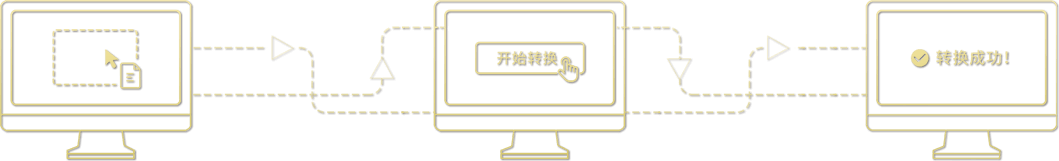
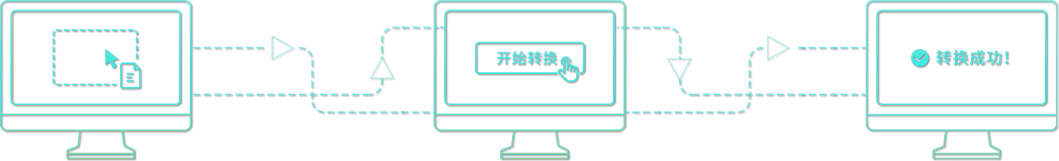
updata

diff --git a/public/css/home/surpport.css b/public/css/home/surpport.css
@@ -673,7 +673,7 @@ table{
     position: relative;
     width: 100%;
     color: #fff;
-    background: no-repeat 50% 50% #008c8c;
+    background: no-repeat 50% 50% #1eaeb9;
 }
 
 
@@ -918,13 +918,13 @@ table{
     display: block;
 }
 .goods-pics .goods-pic-1{
-    background: url(../../images/goods-pic-1.png) center no-repeat;
+    background: url(../../images/goods-pic.png) center no-repeat;
 }
 .goods-pics .goods-pic-2{
-    background: url(../../images/goods-pic-2.png) center no-repeat;
+    background: url(../../images/goods-pic.png) center no-repeat;
 }
 .goods-pics .goods-pic-3{
-    background: url(../../images/goods-pic-3.png) center no-repeat;
+    background: url(../../images/goods-pic.png) center no-repeat;
 }
 
 
@@ -1904,7 +1904,6 @@ h1.title {
 }
 
 .banner-surpport {
-    background-color: #278ff0;
     background-image: url(../../images/bg-help-top-01.jpg);
 }
 
@@ -1912,9 +1911,6 @@ h1.title {
     height: 240px;
 }
 
-.banner-problems {
-    background: url(../../images/bg-010.jpg) no-repeat 50% 50%;
-}
 
 .banner-problems .banner-pic {
     width: 37%;
@@ -1960,7 +1956,7 @@ h1.title {
 
 .banner-help {
     height: 240px;
-    background: url(../../images/bg-help-top-01.jpg) center no-repeat #278ff0;
+    background: url(../../images/bg-help-top-01.jpg) center no-repeat #1eaeb9;
 }
 
 @media (max-width: 600px) {
@@ -2078,7 +2074,7 @@ h1.title {
 }
 
 .category-list-help .item-wrap h1:hover {
-    background-color: #3c9ef8;
+    background-color: #3d8c86;
 }
 
 .category-list-help .item-wrap h1 a {
@@ -2122,7 +2118,7 @@ h1.title {
 }
 
 .category-list-help .item-wrap .more a {
-    color: #29adff;
+    color: #008c8c;
 }
 
 .category-list-help .item-wrap .more a:hover {
@@ -2236,7 +2232,7 @@ h1.title {
 }
 
 .category-list-problems .item-excerpt h2 a {
-    color: #29adff;
+    color: #008c8c;
 }
 
 .category-list-problems .item-excerpt h2 a:hover {
@@ -2263,7 +2259,7 @@ h1.title {
     width: 90%;
     margin: 0 auto;
     text-align: right;
-    color: #29adff;
+    color: #008c8c;
 }
 
 .category-list-problems .item-excerpt .more:hover {
@@ -2622,7 +2618,7 @@ h1.title {
 
 .surpport-reg-guide div.cxt a.a-01 {
     margin-top: 45px;
-    background: #eaf5fe;
+    background: #e9f8f9;
     *height: 170px;
 }
 
@@ -2638,14 +2634,14 @@ h1.title {
     margin: 30px auto 30px;
     padding: 3px 0px;
     color: #fff;
-    background: #319df9;
+    background: #008c8c;
 }
 
 .surpport-reg-guide div.cxt li h3 {
     font-size: 24px;
     padding: 10px 0;
     text-align: center;
-    color: #319df9;
+    color: #008c8c;
     *text-indent: 100px;
 }
 
@@ -4477,13 +4473,13 @@ h4.title-feature {
     margin: 0 auto .618em;
     text-align: center;
     color: #fff;
-    border: solid 1px #015082;
+    border: solid 1px #008c8c;
     border-top: none;
     border-bottom-width: 2px;
     -webkit-border-radius: 4px;
     -moz-border-radius: 4px;
     border-radius: 4px;
-    background-color: #0168b8;
+    background-color:#008c8c;
 }
 
 .hero-aside .hero-download img {
@@ -4503,7 +4499,7 @@ h4.title-feature {
     padding: 5px 0;
     text-align: center;
     color: #fff;
-    background-color: #0e8aea;
+    background-color: #008c8c;
 }
 
 .article-relate img {
@@ -4513,7 +4509,6 @@ h4.title-feature {
     display: block;
     margin-bottom: 10px;
     padding-left: 1em;
-    background: #e5f3fd;
 }
 
 
@@ -4556,7 +4551,7 @@ h4.title-feature {
 .article-relate-tags a {
     font-size: 8px;
     padding: .2em .4em;
-    background: #e5f3fd;
+    background: #e9f8f9;
 }
 
 .article-relate-tags a:hover {
@@ -4571,11 +4566,11 @@ h4.title-feature {
     padding: 7px 0;
     text-align: center;
     color: #1583d1;
-    border-bottom: solid 8px #a4d8f1;
+    border-bottom: solid 8px #e9f8f9;
     -webkit-border-radius: 8px;
     -moz-border-radius: 8px;
     border-radius: 8px;
-    background-color: #c0eefc;
+    background-color: #e9f8f9;
 }
 
 .aside-qq img {

diff --git a/public/css/home/style.css b/public/css/home/style.css
@@ -60,7 +60,7 @@
 .x2018BannerMenu .active,
 .x2018BannerMenu li:hover{background: #d51403;}
 .x2018Banner3BG{background: url(../../images/x2018banner3bg.png); height: 350px;}
-.numBG{background: #1b9efc; display: inline-block; width: 25px; height: 25px; border-radius: 50%; color: #fff; line-height: 25px; text-align: center; margin-right: 10px;}
+.numBG{background: #1eaeb9; display: inline-block; width: 25px; height: 25px; border-radius: 50%; color: #fff; line-height: 25px; text-align: center; margin-right: 10px;}
 .xinTitle{background: url(../../images/x2018_10.png) no-repeat 0 25px ; padding-left:40px;}
 .xinTitle2{background: url(../../images/x2018_10.png) no-repeat 0 6px ; padding-left:40px;}
 .x2018YPGJ{height: 511px; background: url(../../images/x2018_2_4.jpg) no-repeat top;}

diff --git a/resources/views/index.blade.php b/resources/views/index.blade.php
@@ -94,7 +94,6 @@
     }
 
     .banner-index .banner-pic img {
-        margin-top: 16%;
         margin-left: -10%;
     }
 
@@ -163,9 +162,9 @@
     }
     @media (min-width: 1024px) {
        .jiaochen{
-           width: 1000px;
-           margin-left: 38%;
-           display: inline-block;
+           width: 530px;
+           margin: 0 auto;
+           display: block;
        }
     }
     @media (max-width: 1024px) {
@@ -175,8 +174,8 @@
     }
     @media (min-width: 1024px) {
         .hero-index-step {
-            width: 1200px;
-            margin-left: 23%;
+            width: 1000px;
+            margin: 0 auto;
         }
     }
     @media (max-width: 1024px) {
@@ -188,7 +187,7 @@
     .hero-index-step > div {
         position: relative;
         display: inline-block;
-        width: 19%;
+        width: 19.5%;
         vertical-align: top;
     }
     .hero-index-step > div:after {
@@ -207,7 +206,8 @@
 
     @media (min-width: 1024px) {
         .cj_list{
-            margin-left: 25%;
+            width: 900px;
+            margin: 0 auto;
         }
     }
 
@@ -242,7 +242,7 @@
             <section class="banner banner-index">
                 <ul class="wrapper current">
                     <li class="left banner-pic">
-                        <img src="{{asset('images/banner-pic-01.png')}}">
+                        <img src="{{asset('images/banner-pic.png')}}">
                     </li>
                     <li class="right banner-cxt">
                         <h1><i>{{ $config['title'] }}</i></h1>
@@ -384,8 +384,7 @@
             <li>
                 <i class="icon-u4"></i>
                 <h3>如何选择PDF转换成Word转换器？</h3>
-                <p>如果你对转换的质量要求比较高，例如不要出现错别字、尽可能不出现乱码等，那么建议选择更为专业的PDF转换工具；如果您对文件保密性要求比较高，</p>
-                <p>那么建议选择大品牌有保障的PDF转换工具。例如{{ $config['title'] }}</p>
+                <p>如果你对转换的质量要求比较高，例如不要出现错别字、尽可能不出现乱码等，那么建议选择更为专业的PDF转换工具；如果您对文件保密性要求比较高，那么建议选择大品牌有保障的PDF转换工具。例如{{ $config['title'] }}</p>
             </li>
             <li>
                 <i class="icon-u4"></i>

diff --git a/resources/views/about.blade.php b/resources/views/about.blade.php
@@ -2,7 +2,33 @@
 <body>
 @include('layouts.nav')
 
-关于页面
+
+<div  style="margin:0 auto;width: 1000px">
+    <h1 class="tac fs20 pb20 m_fs36r m_pb20r"><b>公司简介</b></h1>
+    <p class="ti2 pb12 m_pb20r">苏州图可互联网信息有限公司核心人员进驻pdf技术处理领域多年，应中国软件市场正规化需求，正式成立该信息有限公司。新创立此公司旨在推行中国市场常规场景PC端应用级软件。</p>
+    <p class="ti2 pb12 m_pb20r">软件市场存在于大量的参差不齐的产品，本公司旨在于发行绿色纯净的正版软件。</p>
+    <p class="ti2 pb12 m_pb20r">坚定丰富客户体验感的承诺，我们的产品始终贯穿用户思维，一路走来，始终如一。同时，我们也希望您能与我们携手，在这条路上共创更多的机会、精彩与想象。</p>
+    <p class="ti2 pb12 m_pb20r">We need your thought！</p>
+    <p class="ti2 pb12 fwb m_pb20r">可以通过以下方式联系我们：</p>
+    <p class="ti2 pb12 m_pb20r">
+        <span class="fwb">邮箱：</span>admin@smallpdfer.com
+    </p>
+    <p class="ti2 pb12 m_pb20r">
+        <span class="fwb">客服：</span>{{ $config['email'] }}
+    </p>
+    <p class="ti2 pb12 m_pb20r">
+        <span class="fwb">QQ：</span>{{ $config['qq'] }}
+    </p>
+    <p class="ti2 pb12 m_pb20r">
+        <span class="fwb">邮政编码：</span>025000
+    </p>
+    <p class="ti2 pb12 m_pb20r">
+        <span class="fwb">地址：</span>苏州市中博科技园
+    </p>
+    <p class="ti2 pb12 m_pb20r">
+        <span class="fwb">技术服务时间：</span>周一至周五【9:00-18:00】
+    </p>
+</div>
 
 {{--底部--}}
 @extends('layouts.footer')

diff --git a/resources/views/layouts/nav.blade.php b/resources/views/layouts/nav.blade.php
@@ -4,7 +4,7 @@
         <img class="m_menu layui-hide m_w30r" src="{{asset('picture/m_menu.png')}}">
         <div class="logo">
             <h1 class="fs16 c4 m_fs16r">
-                <img class="mr10 " src="{{asset('picture/logo.png')}}" alt="会声会影中文版官网" />
+                <img style="margin-bottom: 5px" src="{{asset('picture/logo.png')}}" alt=""><span style="padding-left:10px;font-size: 20px;color: #0a4b3e;height: 40px;line-height: 40px;display: inline-block">{{ $config['title'] }}</span>
             </h1>
         </div>
 
@@ -35,7 +35,7 @@
             <li class="pr" hoverShow="true" noHoverHide="true">
                 <a href="{{ route('software') }}">产品<i class="layui-icon fs14 ml5">&#xe61a;</i></a>
                 <div class="subNav layui-hide">
-                    <a class="bd-b-1" href="{{ route('software') }}">会声会影2018</a>
+                    <a class="bd-b-1" href="{{ route('software') }}"></a>
                 </div>
             </li>
             <li><a href="xiazai.html">下载</a></li>

diff --git a/resources/views/detail.blade.php b/resources/views/detail.blade.php
@@ -73,8 +73,7 @@
                 <a href="http://wpa.qq.com/msgrd?v=3&uin=2638897163&site=qq&menu=yes" target="_blank" class="aside-qq"><img src="{{asset('picture/qq.png')}}" alt="">联系客服...</a>
 
                 <div class="hero-aside-content">
-                    <a><img src="{{asset('picture/logo.png')}}" alt="功能强大、界面简洁、操作简单的PDF转换成Word或者Word转换成PDF的软件"></a>
-                    <p>功能强大、界面简洁、操作简单的PDF转换成Word或者Word转换成PDF的软件</p>
+                    <p><span style="color: #084b24">{{ $config['title'] }}</span>功能强大、界面简洁、操作简单的PDF转换成Word或者Word转换成PDF的软件</p>
                     <a href="http://218.98.24.73/softdl.360tpcdn.com/auto/20190408/1900060976_110552f78b8161acafdda17e9e0f001c.exe" class="hero-download"><img src="{{asset('picture/icon-hero-download.png')}}" alt="">立即下载</a>
                 </div>
             </div>

diff --git a/resources/views/problems.blade.php b/resources/views/problems.blade.php
@@ -4,7 +4,7 @@
 
 @include('layouts.nav')
 
-<section class="banner banner-surpport banner-problems full">
+<section class="banner  banner-problems full">
     <ul class="wrapper current">
         <li class="left banner-pic banner-pic"></li>
         <li class="right banner-cxt">
